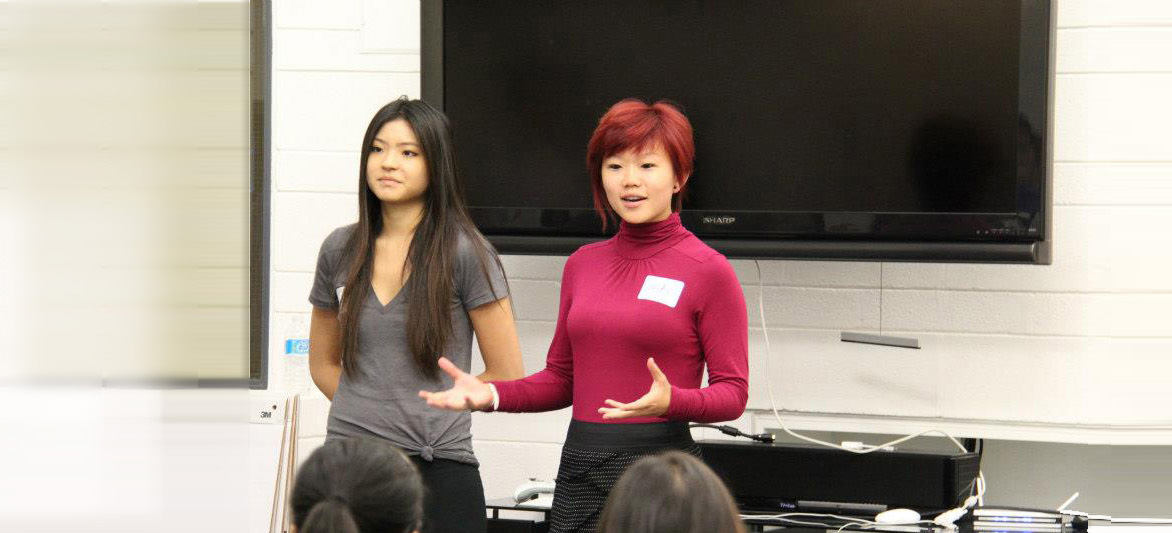
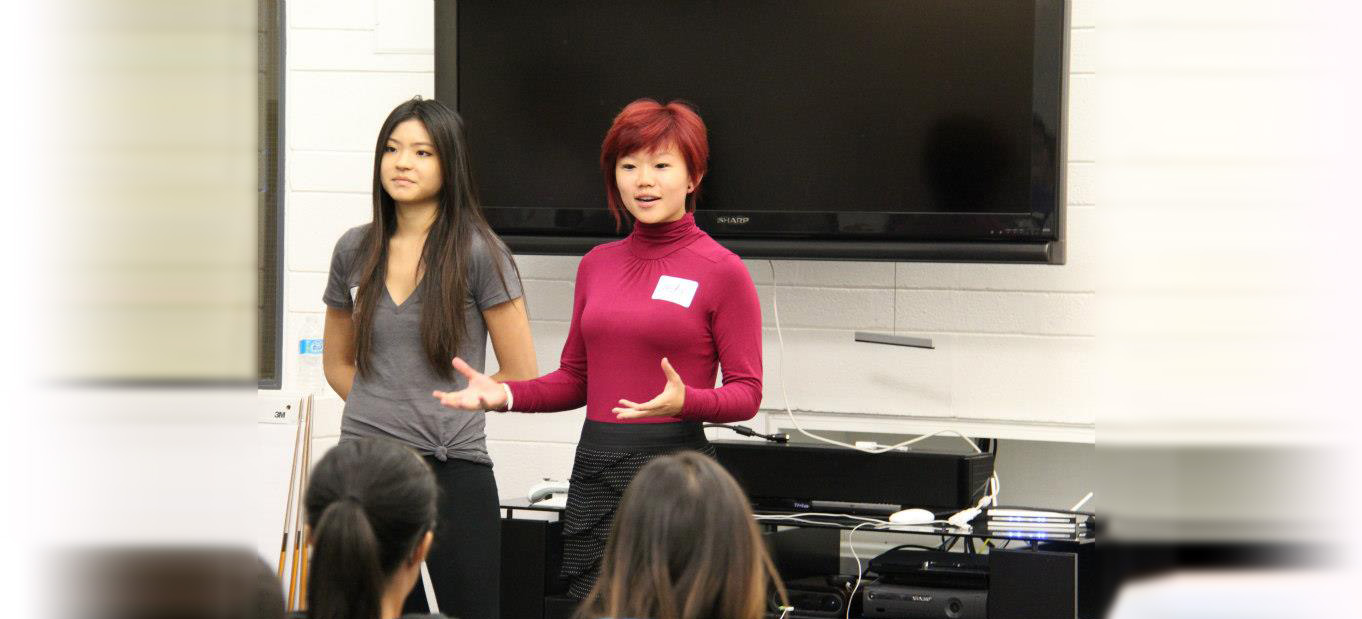
responsive nav; editted carousel imgs

diff --git a/public/css/styles.css b/public/css/styles.css
@@ -3,32 +3,24 @@ body {
 	background-color: #fff;
 }
 	.navbar {
-		height: 30px; 
 		border: none;
 		background: rgba(0, 0, 0, 0.7);
 	}
 	.navbar-brand { 
-		font-size: 65px; 
+		font-size: 4.6em; 
 		font-family: "century gothic"; 
-		letter-spacing: 15px;
+		letter-spacing: 0.4em;
 		color: #f5f5f5;
-		padding-left: 20px;
 	}
 	.navbar-nav {
-		font-size: 19px;
+		font-size: 1.3em;
+		letter-spacing: 0.2em;
 		font-family: "century gothic"; 
 		float: right; 
-		height: 30px; 
 	}
 	.navbar-nav>li>a {
 		color: #f5f5f5;
-		height: 30px;
 	}
-	.navbar-nav>li>.dropdown-menu {
-		width: 200px;
-		height: 30px;
-	}
-
 #home {
 	background-color: #fff; 
 }
@@ -47,10 +39,6 @@ body {
 		width: 100%; 
 		position: relative;
 	}
-	/*.carousel-indicators {
-		bottom: 0; 
-		height: 10px; 
-	}*/
 	.carousel .item img {
 		display: block;
 		width: 100%;
